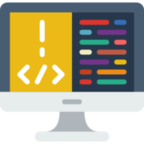
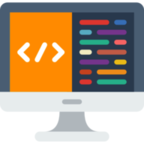
makes codebook orange

Changed region(s): [[0.0556, 0.0833, 0.5, 0.6389]]

diff --git a/src/pages/2.js b/src/pages/2.js
@@ -11,7 +11,7 @@ export const body = (
       tellus dolor sed est. Fusce sit amet sagittis dui. Nullam tempus molestie nulla, id iaculis odio fermentum quis.
       Vivamus blandit condimentum tincidunt.
     </p>
-    <img alt="GitHub" src={`${process.env.PUBLIC_URL}/coding.png`} />
+    <img alt="CodeBook" src={`${process.env.PUBLIC_URL}/coding-orange.png`} />
   </div>
 )
 
